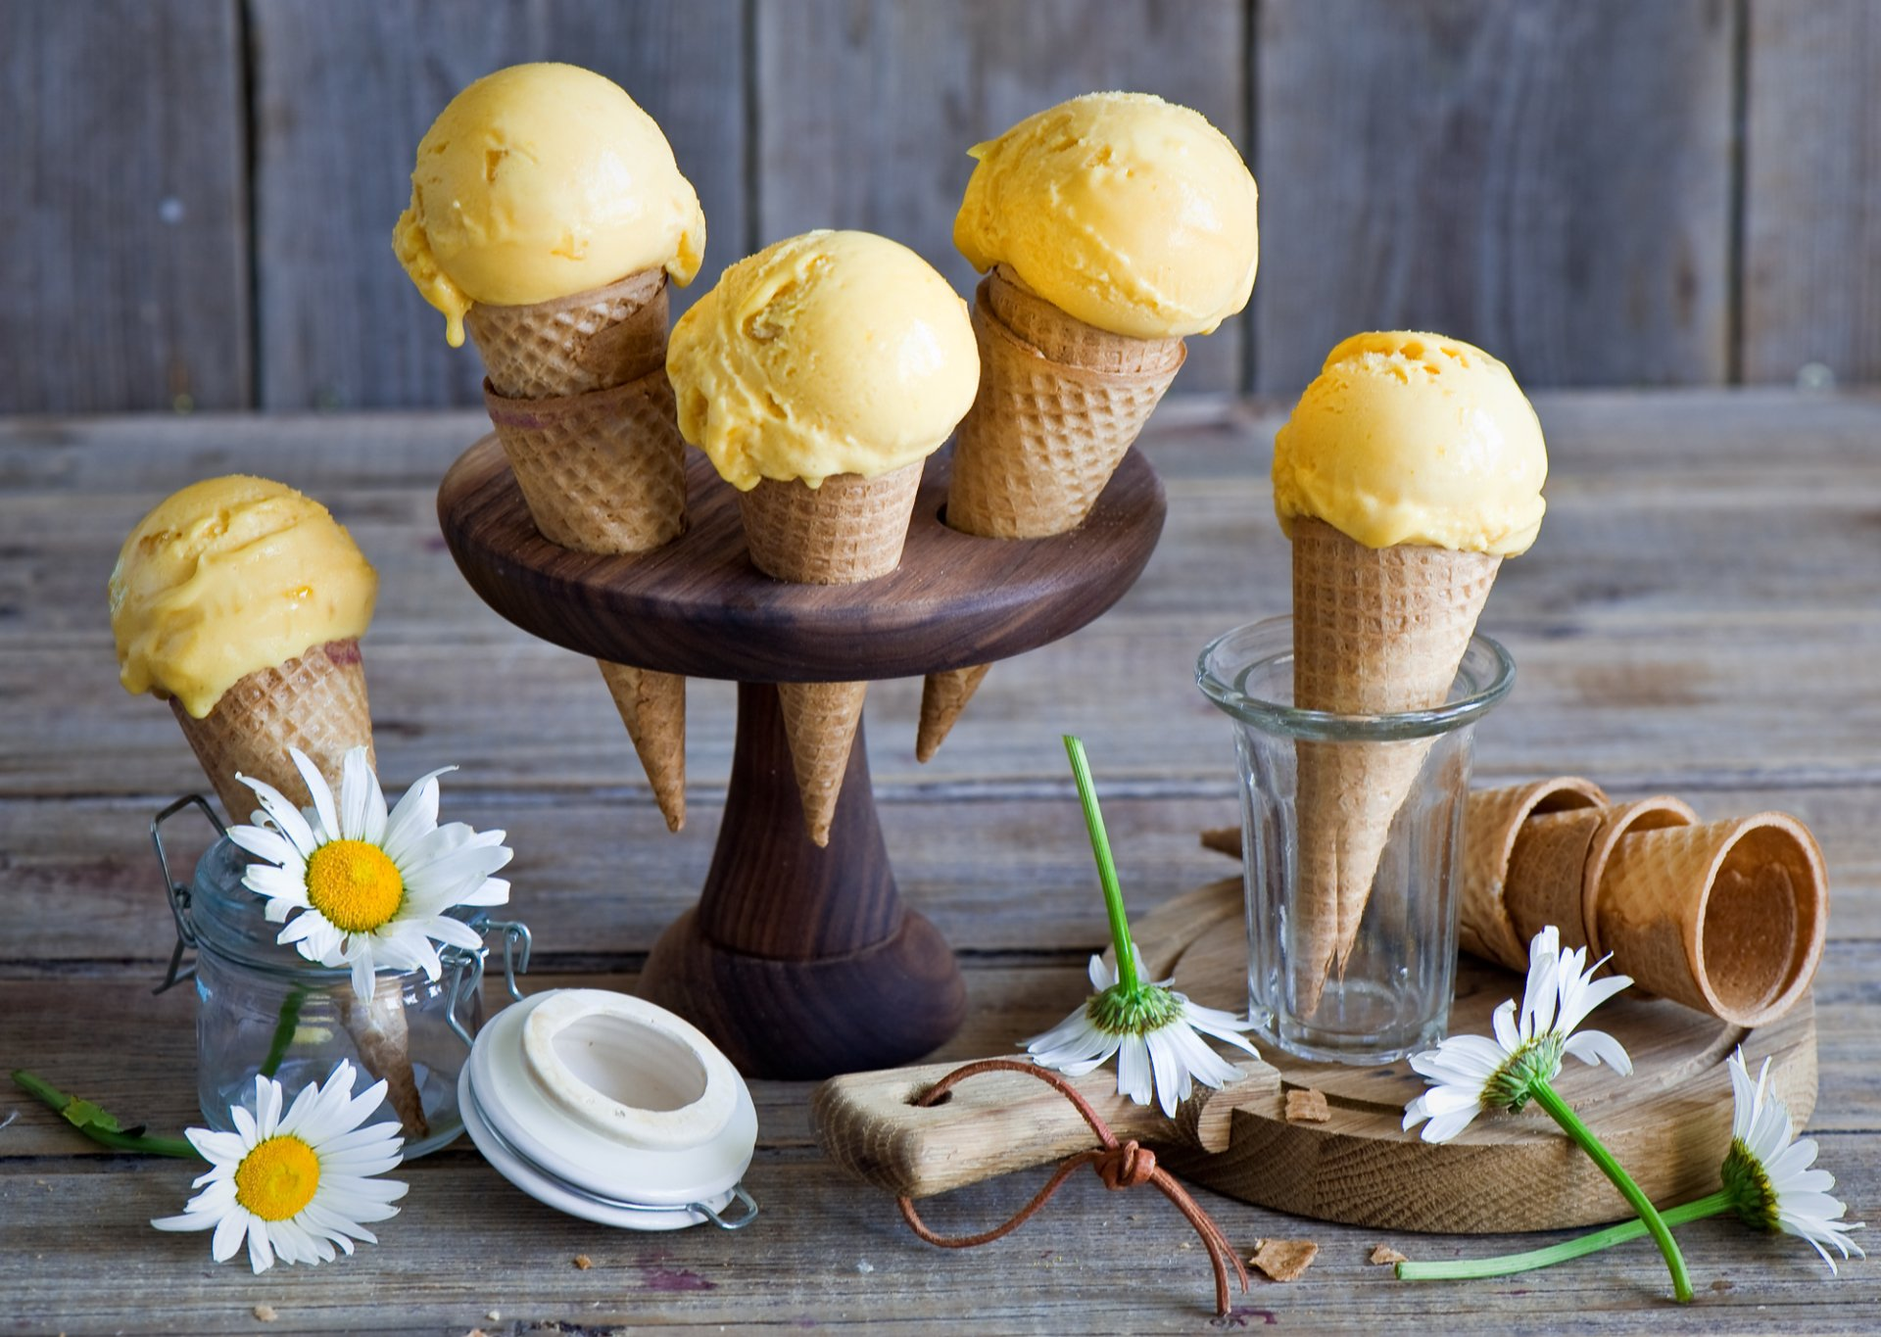
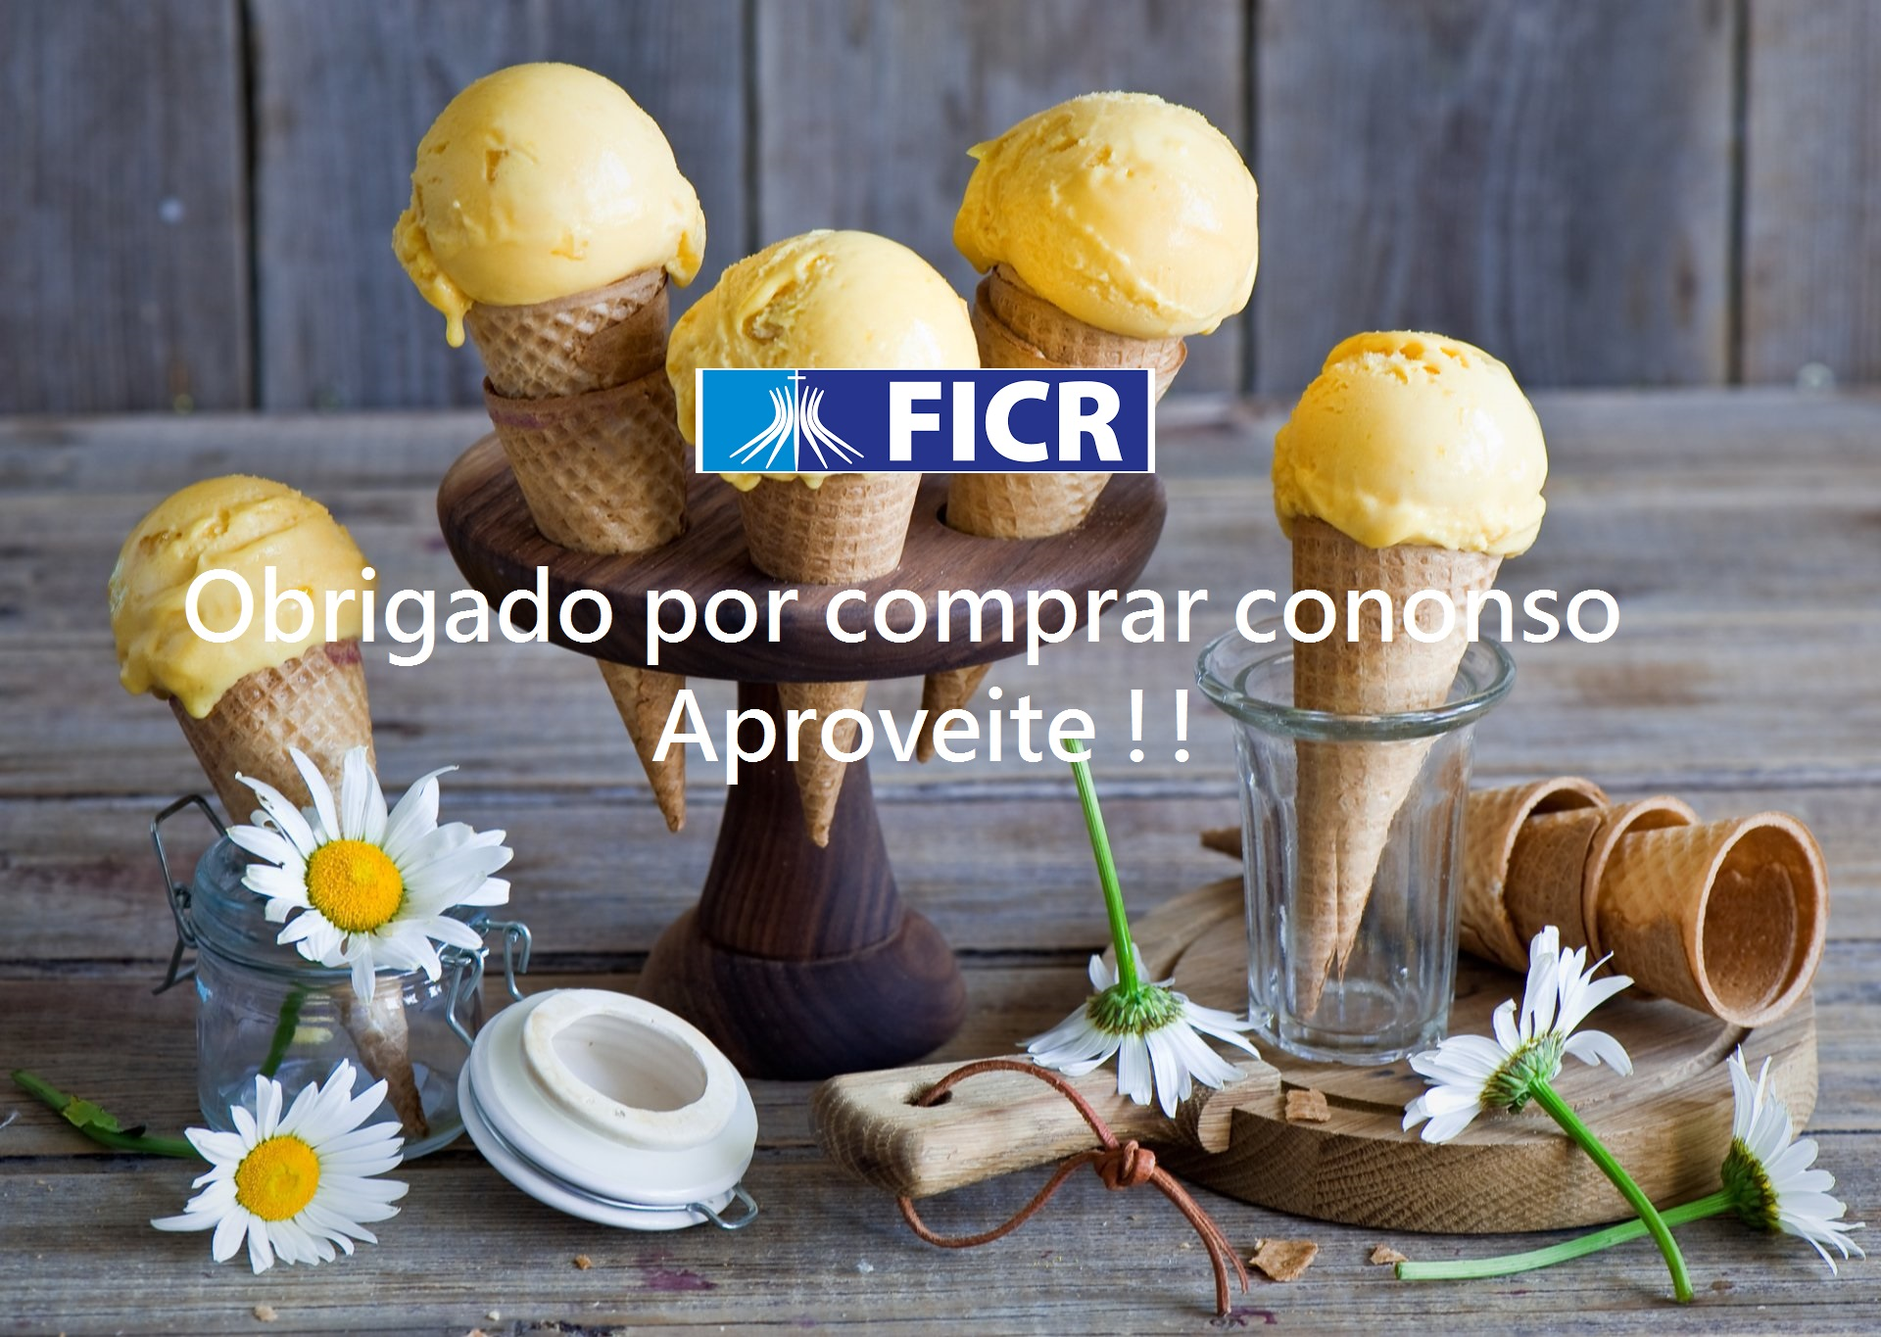
atualização

Changed region(s): [[0.0938, 0.4308, 0.875, 0.5846], [0.3438, 0.2769, 0.625, 0.3692]]

diff --git a/restaurante.html b/restaurante.html
@@ -16,53 +16,222 @@
                     <nav class="row">
                         <div class="col s8 m4 offset-m1 offset-l1 l3">
                             <a href="#!"><img class="logo" src="imagens/bum.svg" alt="Cursos"></a>
-                        </div> <!-- /col -->
+                        </div>
                         <div class="col s3 offset-s1 offset-m5 m2 l8">
                             <a href="#" data-target="mobile-menu" class="sidenav-trigger">
                                 <i class="material-icons">menu</i>
                             </a>
                             <ul class="right hide-on-med-and-down">
-                                <li><a href="#formacoes">Formações</a></li>
-                                <li><a href="#comoFunciona">Como funciona</a></li>
-                                <li><a href="#criarConta" class="modal-trigger">Criar conta</a></li>
-                                <li><a href="#" class="waves-effect waves-light btn">Entrar</a></li>
+                                <li><a href="#sabores"><b>Sabores</b></a></li>   
+                                <li><a href="#facaPedido" class="waves-effect waves-light btn modal-trigger #0000ff">Faça seu pedido</a></li>
                             </ul>
                         </div>
-                    </nav> <!-- /row -->
-                </div> <!-- /navbar-fixed -->
+                    </nav>
+                </div>
                 <ul class="sidenav" id="mobile-menu">
-                    <li><a href="#formacoes">Formações</a></li>
-                    <li><a href="#comoFunciona">Como funciona</a></li>
-                    <li><a href="#criarConta" class="modal-trigger">Criar conta</a></li>
-                    <li><a href="#" class="waves-effect waves-light btn">Entrar</a></li>
+                    <li><a href="#sabores"><b>Sabores</b></a></li>
+                    <li><a href="#facaPedido" class="modal-trigger waves-effect waves-light btn">Faça seu pedido</a></li>
                 </ul>
             </header>
-            <div id="criarConta" class="modal">
+            <div id="facaPedido" class="modal">
                 <div class="modal-content">
-                  <header><h3>Criar conta</h3></header>
-                  <form action="" method="post">
-                      <div class="row">
-                          <div class="input-field col m12">
-                              <input id="usuario" type="text" class="validate">
-                              <label for="usuario">Usuário</label>
-                          </div>
-                          <div class="input-field col m12">
-                              <input id="senha" type="text" class="validate">
-                              <label for="senha">Senha</label>
-                          </div>
-                          <button class="btn btn-small waves-effect waves-light" type="submit" name="action">Concluir<i class="material-icons right">send</i></button>
-                      </div>
-                  </form>
+                  <header><h3>Faça seu pedido</h3></header>
+                  <form action="#" method="post" class="tm-contact-form">
+                    <div class="col-lg-6 col-md-6">
+                        
+                    </div> 
+                    <div class="col-lg-6 col-md-6 tm-contact-form-input">
+                        <div class="form-group">
+                            <input type="text" id="name" class="form-control" placeholder="NOME" />
+                        </div>
+                        <div class="form-group">
+                            <input type="email" id="email" class="form-control" placeholder="EMAIL" />
+                        </div>
+                        <div class="form-group">
+                            <input type="text" id="endereco" class="form-control" placeholder="ENDEREÇO" />
+                        </div>
+                        <div class="form-group">
+                            <textarea id="pedido" class="form-control" rows="6" placeholder="PEDIDO"></textarea>
+                        </div>
+                        <div><p>OBS: o pagamento deverá ser feito na entrega do produto (Dinheiro, Cartão ou Pix)</p>
+                            <p>Entrega em toda região metropolitana do Recife</p>
+
+                        <p>Tempo médio de entrega: 45 minutos</p>
+                        </div>
+                        <a href="obrigado.html" class="waves-effect waves-light btn modal-trigger">Confirmar pedido<i class="material-icons right">send</i></a>            
+                    </div>
+                </form>
                 </div>
                 <div class="modal-footer">
-                  <a href="#!" class="modal-close waves-effect waves-teal btn-flat">Fechar</a>
+                  <a href="#cancelarPedido" onclick="alert('Deseja realmente cancelar o pedido ?')" class="modal-close waves-effect waves-teal btn-flat red">Cancelar pedido</a>
                 </div>
               </div>
         <div id="intro" class="col s12 m7 l9">
         <header><h1>Sorveteria FICR</h1></header>
-        <p>Variedade de sabor é na FICR !<br/>Na FICR você encontra os mais diferentes tipos de sorvetes</p>
+        <p><b>Variedade de sabor é na FICR !</b></p> 
         </div>
     </section>
+    <section id="sabores">
+        <div class="container">
+            <header><h3><b>Sabores</b></h3></header>
+            <p>Aqui você encontra os mais diferentes sabores de sorteve do mundo. Só aqui na FICR !</p>
+            <div class="row">
+                <div class="col s12 m4">
+                    <div class="card">
+                        <div class="card-image waves-effect waves-light waves-block">
+                            <img class="activator" src="imagens/frutas-tropicais.jpg" alt="fomação mobile">
+                        </div>
+                        <div class="card-content">
+                            <header><h6 class="activator card-title">Sorvete tropical<br/><strong>R$ 18,99</strong></h6></header>
+                            <p>Sorvete com sabor da fruta da sua escolha e com pedaços deliciosos.</p>
+                        </div>
+                            <div class="card-reveal">
+                            <header><h6 class="card-title">Sorvete tropical<i class="material-icons right">close</i></h6></header>
+                       <p>Sorvete típico do brasileiro com aquele gostinho de quero mais. O sorve tem o sabor da fruta que você preferir e ainda com pedaços da própria fruta para te deixar com água na boca.</p>
+                       <div class="card-action">
+                           <a href="#facaPedido" class="waves-effect waves-light btn modal-trigger">Pedir</a>
+                       </div>
+                   </div>
+                   <div class="card-action">
+                       <a href="#facaPedido" class="waves-effect waves-light btn modal-trigger">Pedir</a>
+                   </div>
+                        </div>
+                    </div>
+                <div class="col s12 m4">
+                    <div class="card">
+                        <div class="card-image waves-effect waves-light waves-block">
+                            <img class="activator" src="imagens/artesanal.jpg" alt="fomação mobile">
+                        </div>
+                        <div class="card-content">
+                            <header><h6 class="activator card-title">Sorvete artesanal<br/><strong>R$ 12,99</strong></h6></header>
+                            <p>Não leva corantes nem aromatizantes artificiais em seu preparo.</p>
+                        </div>
+                            <div class="card-reveal">
+                            <header><h6 class="card-title">Sorvete artesanal<i class="material-icons right">close</i></h6></header>
+                       <p>É fabricado a partir de ingredientes naturais e frescos, tornando-o mais saudável que o industrializado. Sua textura é mais densa e mais cremosa. Geralmente é vendido por bola ou por quilo. Sua fabricação é própria do estabelecimento.</p>
+                       <div class="card-action">
+                           <a href="#facaPedido" class="waves-effect waves-light btn modal-trigger">Pedir</a>
+                       </div>
+                   </div>
+                   <div class="card-action">
+                       <a href="#facaPedido" class="waves-effect waves-light btn modal-trigger">Pedir</a>
+                   </div>
+                        </div>
+                    </div>
+                <div class="col s12 m4">
+                    <div class="card">
+                        <div class="card-image waves-effect waves-light waves-block">
+                            <img class="activator" src="imagens/italiano.jpg" alt="fomação mobile">
+                        </div>
+                        <div class="card-content">
+                            <header><h6 class="activator card-title">Sorvete italiano (Gelato)<br/><strong>R$ 14,99</strong></h6></header>
+                            <p>É o sorvete de massa italiano e artesanal.</p>
+                        </div>
+                            <div class="card-reveal">
+                            <header><h6 class="card-title">Sorvete italiano<i class="material-icons right">close</i></h6></header>
+                       <p>Sua produção é bem similar a do sorvete caseiro, são utilizados ingredientes sempre frescos no seu preparo. A gordura utilizada é a do leite, não se utiliza gordura hidrogenada nem qualquer tipo de emulsificante e estabilizante. Por possuir ingredientes naturais, se torna uma ótima opção de sobremesa saudável. Para muitos consumidores é garantia de saúde.</p>
+                       <div class="card-action">
+                           <a href="#facaPedido" class="waves-effect waves-light btn modal-trigger">Pedir</a>
+                       </div>
+                   </div>
+                   <div class="card-action">
+                       <a href="#facaPedido" class="waves-effect waves-light btn modal-trigger">Pedir</a>
+                   </div>
+                        </div>
+                    </div>
+                <div class="col s12 m4">
+                    <div class="card">
+                        <div class="card-image waves-effect waves-light waves-block">
+                            <img class="activator" src="imagens/soberbs.jpg" alt="fomação mobile">
+                        </div>
+                        <div class="card-content">
+                            <header><h6 class="activator card-title">Sorbets<br/><strong>R$ 23,99</strong></h6></header>
+                            <p>A base de água e não de leite. Não há presença de gordura.</p>
+                        </div>
+                            <div class="card-reveal">
+                            <header><h6 class="card-title">Sorbets<i class="material-icons right">close</i></h6></header>
+                       <p>Eles são os gelatos de fruta, sendo mais refrescantes e sem gordura. Uma boa opção para quem prefere um produto refrescante sem ser picolé. Excelentes para alérgicos à lactose e pessoas que procuram produtos de baixa caloria.</p>
+                       <div class="card-action">
+                           <a href="#facaPedido" class="waves-effect waves-light btn modal-trigger">Pedir</a>
+                       </div>
+                   </div>
+                   <div class="card-action">
+                       <a href="#facaPedido" class="waves-effect waves-light btn modal-trigger">Pedir</a>
+                   </div>
+                        </div>
+                    </div>
+                <div class="col s12 m4">
+                    <div class="card">
+                        <div class="card-image waves-effect waves-light waves-block">
+                            <img class="activator" src="imagens/Sherbets.jpg" alt="fomação mobile">
+                        </div>
+                        <div class="card-content">
+                            <header><h6 class="activator card-title">Sherbets<br/><strong>R$ 23,99</strong></h6></header>
+                            <p>São sorvetes produzidos geralmente com gordura derivada do leite.</p>
+                        </div>
+                            <div class="card-reveal">
+                            <header><h6 class="card-title">Sherbets<i class="material-icons right">close</i></h6></header>
+                       <p>São sorvetes produzidos geralmente com gordura derivada do leite (máximo de 4 a 5%), obtendo assim uma textura mais cremosa que a do sorbet. Assemelha-se a um purê, como se fosse um purê de frutas.</p>
+                       <div class="card-action">
+                           <a href="#facaPedido" class="waves-effect waves-light btn modal-trigger">Pedir</a>
+                       </div>
+                   </div>
+                   <div class="card-action">
+                       <a href="#facaPedido" class="waves-effect waves-light btn modal-trigger">Pedir</a>
+                   </div>
+                        
+                    </div>
+                </div>
+                <div class="col s12 m4">
+                    <div class="card">
+                        <div class="card-image waves-effect waves-light waves-block">
+                            <img class="activator" src="imagens/palito.jpg" alt="fomação mobile">
+                        </div>
+                        <div class="card-content">
+                            <header><h6 class="activator card-title">Sorvete no palito<br/><strong>R$ 9,99</strong></h6></header>
+                            <p>É o sorvete de massa no formato de picolé.</p>
+                        </div>
+                            <div class="card-reveal">
+                            <header><h6 class="card-title">Sorvete no palito<i class="material-icons right">close</i></h6></header>
+                       <p>Há a presença da gordura hidrogenada em sua composição. Pode ser simples ou levar cobertura, crocantes, farofa, calda e guloseimas. Faça a combinação que você preferir!</p>
+                       <div class="card-action">
+                           <a href="#facaPedido" class="waves-effect waves-light btn modal-trigger">Pedir</a>
+                       </div>
+                   </div>
+                   <div class="card-action">
+                       <a href="#facaPedido" class="waves-effect waves-light btn modal-trigger">Pedir</a>
+                   </div>
+                        </div>
+                    </div>
+                </div>
+            </div>
+    </section>
+    <footer id="footer" class="page-footer">
+        <div class="container">
+          <div class="row">
+            <div class="col l6 s12">
+              <h5 class="white-text">Clique aqui e faça já seu pedido</h5>
+              <a href="#facaPedido" class="waves-effect waves-light btn modal-trigger">Fazer pedido</a>
+            </div>
+            <div id="social" class="col s12 m4 l4 offset-l2">
+                <header><h5>Nossas Redes</h5></header>
+                <ul>
+                    <li><a href="#">facebook</a></li>
+                    <li><a href="#">youtube</a></li>
+                    <li><a href="#">twitter</a></li>
+                    <li><a href="#">google plus</a></li>
+                    <li><a href="#">instagram</a></li>
+                </ul>
+            </div>
+          </div>
+        </div>
+        <div id="bottom" class="footer-copyright">
+          <div class="container">
+          Sorveteria FICR © 2021
+          
+          </div>
+        </div>
+      </footer>
 
     <script src="https://cdnjs.cloudflare.com/ajax/libs/materialize/1.0.0/js/materialize.min.js"></script>
     <script src="https://cdnjs.cloudflare.com/ajax/libs/jquery/3.6.0/jquery.min.js"></script>

diff --git a/css/layout.css b/css/layout.css
@@ -1,30 +1,88 @@
+body{
+	font-family: "Open Sans", sans-serif;
+}
 section#top {
-    background-image: url(../imagens/thumb-1920-427146.jpg);
+    background-image: url(../imagens/capa.jpg);
 }
 section#top nav {
-    background-color: #1C1C1C
+    background-color: #00BFFF
 }
 div#intro {
     text-align: center;
     color: #000000
+    
+    
 }
 div#intro p {
     font-size: 50px;
+    color: #0000FF
+    
+   
 }
 div#intro h1 {
     font-weight: 700;
-    
+    font-size: 90px;
+    color: #00BFFF; 
 }
-section#top nav ul li:nth-child(3){
+section#top nav ul li:nth-child(2){
 	border-left: 1px solid #fff;
 }
-div#criarConta h3 {
-    border-left: 2px solid rgb(86, 57, 248);
-    padding-left: 8px;
 
+
+h3 {
+    color: #0000FF;
+	border-left: 2px solid #2a7ae4;
+	padding-left: 8px;
 }
 .logo {
     height: 55%;
     width: 55%;
     margin-top: 2px;
+}
+section#sabores p {
+    font-size: 19px;
+    font-weight: 500;
+	color: #0000CD
+}
+section#sabores {
+    background-image: url(../imagens/sabores.jpg);
+}
+h6 {
+    font-size: 3;
+}
+div#social ul li{
+	width: 32px; height: 32px;
+	float: left;
+	margin-right: 15px;
+}
+div#social ul li a{
+	background-image: url('../imagens/sprite-social.png');
+	display: block;
+	height: 100%;
+	text-indent: -99999em;
+}
+div#social ul li:nth-child(1) a{background-position: 0 0;}
+div#social ul li:nth-child(2) a{background-position: -32px 0;}
+div#social ul li:nth-child(3) a{background-position: -64px 0;}
+div#social ul li:nth-child(4) a{background-position: -96px 0;}
+div#social ul li:nth-child(5) a{background-position: -128px 0;}
+
+div#social ul li:nth-child(1) a:hover{background-position: 0 -32px;}
+div#social ul li:nth-child(2) a:hover{background-position: -32px -32px;}
+div#social ul li:nth-child(3) a:hover{background-position: -64px -32px;}
+div#social ul li:nth-child(4) a:hover{background-position: -96px -32px;}
+div#social ul li:nth-child(5) a:hover{background-position: -128px -32px;}
+
+div#bottom {
+    text-align: center;
+}
+footer#footer {
+    background-color: #1874CD;
+}
+.card p {
+    font-size: 19px;
+    color: #4a535a!important;
+}
+.card h6.card-title{
+	color: #0277bd;
 }

diff --git a/obrigado.html b/obrigado.html
@@ -1,0 +1,28 @@
+<!DOCTYPE html>
+<html lang="pt-br">
+<head>
+    <meta charset="UTF-8">
+    <meta http-equiv="X-UA-Compatible" content="IE=edge">
+    <meta name="viewport" content="width=device-width, initial-scale=1.0">
+    <title>Restaurante FICR</title>
+    <style>
+        body{
+            background-image: url(imagens/capa.jpg);
+            text-align: center;
+            margin-top: 400px;
+            font-size: 50px;
+            
+        }
+        h1{
+            color: #00BFFF;
+        }
+        p{
+            color: #0000FF;
+        }
+    </style>
+</head>
+<body>
+    <header><h1>Obrigado por comprar conosco!</h1></header>
+    <p><b>Trabalhando cada vez mais pensando em você !</b></p>
+</body>
+</html>
